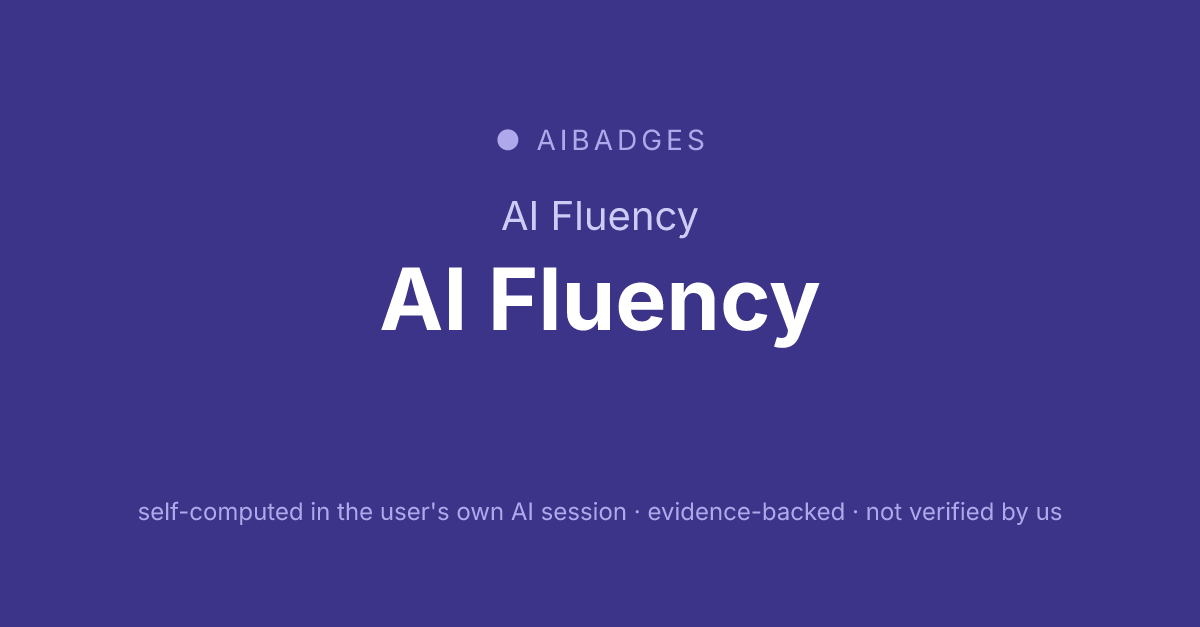
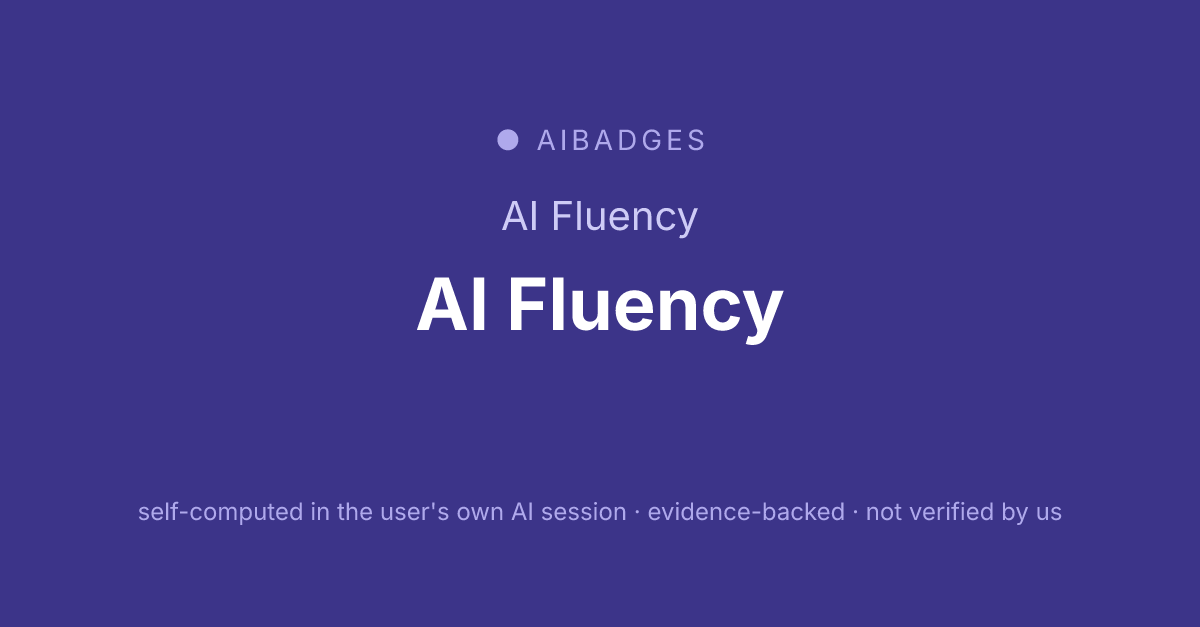
fix(server): badge headline no longer collides with the bars column

Changed region(s): [[0.3083, 0.4242, 0.6783, 0.5758]]

diff --git a/server/src/og.ts b/server/src/og.ts
@@ -34,12 +34,16 @@ export function renderBadgeSvg(content: StatBadgeContent): string {
 
   const headlineX = hasBands ? 90 : 600;
   const anchor = hasBands ? 'start' : 'middle';
+  const headlineSize = hasBands ? 48 : 72;
+  const headlineY = hasBands ? 300 : 330;
+  const smallLabel = hasBands
+    ? ''
+    : `\n  <text x="${headlineX}" y="230" text-anchor="${anchor}" font-family="Inter" font-size="40" fill="#CECBF6">AI Fluency</text>`;
 
   return `<svg width="1200" height="627" viewBox="0 0 1200 627" xmlns="http://www.w3.org/2000/svg">
   <rect width="1200" height="627" fill="#3C3489"/>
-  <text x="${headlineX}" y="150" text-anchor="${anchor}" font-family="Inter" font-size="28" letter-spacing="4" fill="#AFA9EC">&#9679; AIBADGES</text>
-  <text x="${headlineX}" y="230" text-anchor="${anchor}" font-family="Inter" font-size="40" fill="#CECBF6">AI Fluency</text>
-  <text x="${headlineX}" y="330" text-anchor="${anchor}" font-family="Inter" font-size="86" font-weight="bold" fill="#FFFFFF">AI Fluency - Stage ${stage}</text>
+  <text x="${headlineX}" y="150" text-anchor="${anchor}" font-family="Inter" font-size="28" letter-spacing="4" fill="#AFA9EC">&#9679; AIBADGES</text>${smallLabel}
+  <text x="${headlineX}" y="${headlineY}" text-anchor="${anchor}" font-family="Inter" font-size="${headlineSize}" font-weight="bold" fill="#FFFFFF">AI Fluency - Stage ${stage}</text>
   <text x="${headlineX}" y="520" text-anchor="${anchor}" font-family="Inter" font-size="24" fill="#AFA9EC">self-computed in the user's own AI session &#183; evidence-backed &#183; not verified by us</text>
 ${bars}
 </svg>`;